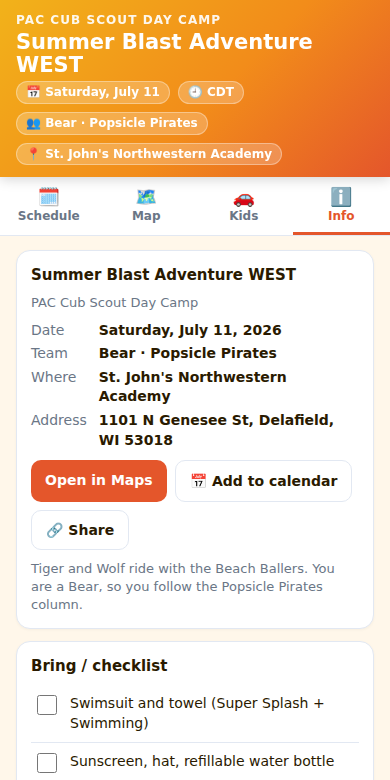
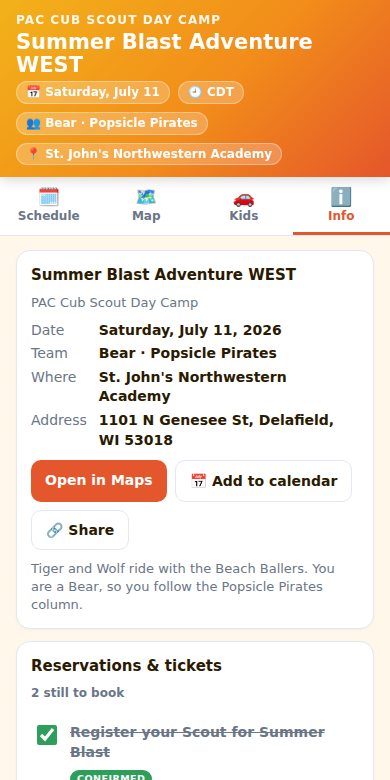
Add reservations and tickets tracker; brainstorm trip-planning roadmap
The app started life as a day-of schedule. A Slack thread reframed the
harder job that comes before that: planning a trip where some things need
tickets or reservations worked out ahead, some are time constrained, some
are too far apart to share a day, and different people want different
things.

This ships the most self-contained of those: an optional bookings[] array
on event.json, rendered as a "Reservations and tickets" card on the Info
tab. Each booking has a status (confirmed, todo, waitlist), an optional
book-by deadline that goes amber as it nears and red when overdue, a
confirmation ref, a booking link, place directions, and a note. A header
count keeps "N still to book" in front of you, and ticking one off
persists offline like the packing list. Everything is optional and
backward compatible, so existing event.json files render unchanged.

IDEAS.md captures the rest of the roadmap (opening hours, per-person
wants, drive-time fit, flex-vs-fixed replanning, and a candidate-pool day
builder), each mapped to a pain point and following the same optional,
offline, data-driven rules.

- index.html: normalizeBookings(), daysUntil(), BOOK_STATUS, the Info card
  render + offline persistence, and matching CSS.
- SPEC.md, README.md, NEW-EVENT.md: document the field and prompt for it.
- event.json and samples/vacation.json: sample bookings.
- sw.js: bump CACHE to daykit-v9.
- docs/: regenerate the Info and goals screenshots.
[…]

Changed region(s): [[0.0923, 0.8308, 0.8615, 1.0]]

diff --git a/index.html b/index.html
@@ -231,6 +231,24 @@
   .goallist.stretch .goalpill { background: var(--water); }
   .goallist.stretch .check input { accent-color: var(--water); }
   .goalprog { font-size: 11px; color: var(--muted); font-weight: 700; margin: 4px 0 0; }
+  .bksum { font-size: 12px; color: var(--muted); font-weight: 700; margin: 0 0 10px; }
+  .bklist { list-style: none; margin: 0; padding: 0; }
+  .bk { display: flex; gap: 10px; align-items: flex-start; padding: 11px 2px; border-bottom: 1px solid var(--line); }
+  .bk:last-child { border-bottom: 0; }
+  .bk input { width: 20px; height: 20px; margin-top: 2px; accent-color: #2e9e5b; flex: 0 0 auto; }
+  .bk .bkmain { flex: 1 1 auto; min-width: 0; }
+  .bk .bktop { display: flex; align-items: center; gap: 8px; flex-wrap: wrap; }
+  .bk .bkname { font-size: 14px; font-weight: 700; }
+  .bk.done .bkname { text-decoration: line-through; color: var(--muted); }
+  .bkpill { font-size: 9.5px; font-weight: 800; letter-spacing: .05em; text-transform: uppercase; padding: 2px 7px; border-radius: 999px; color: #fff; background: var(--muted); white-space: nowrap; }
+  .bkpill.confirmed { background: #2e9e5b; }
+  .bkpill.waitlist { background: #e0922f; }
+  .bkpill.todo { background: var(--accent); }
+  .bkmeta { font-size: 12px; color: var(--muted); margin: 3px 0 0; }
+  .bkmeta a { color: var(--water); font-weight: 600; }
+  .bkby { font-weight: 700; }
+  .bkby.soon { color: #c9791f; }
+  .bkby.over { color: #d64545; }
   .kv { display: grid; grid-template-columns: auto 1fr; gap: 4px 12px; font-size: 14px; margin: 0; }
   .kv dt { color: var(--muted); }
   .kv dd { margin: 0; font-weight: 600; }
@@ -417,6 +435,37 @@ function normalizeLists(raw){
     });
   }
   return out;
+}
+
+/* Reservation statuses. "todo" needs booking, "confirmed" is locked, "waitlist" is pending. */
+var BOOK_STATUS = {
+  todo:      { pill:"To book" },
+  confirmed: { pill:"Confirmed" },
+  waitlist:  { pill:"Waitlist" }
+};
+
+/* Accept a few shapes for EV.bookings and normalize to [{title,status,...}]. */
+function normalizeBookings(raw){
+  if(!Array.isArray(raw)) return [];
+  return raw.map(function(b){
+    if(typeof b==="string") return { title:b, status:"todo", when:"", by:"", ref:"", url:"", place:"", who:"", note:"" };
+    if(!b || !b.title) return null;
+    var status=String(b.status||"todo").toLowerCase();
+    if(!BOOK_STATUS[status]) status="todo";
+    return {
+      title:b.title, status:status,
+      when:b.when||"", by:b.by||"", ref:b.ref||"", url:b.url||"",
+      place:b.place||"", who:b.who||"", note:b.note||""
+    };
+  }).filter(Boolean);
+}
+
+/* Whole days from local midnight until a yyyy-mm-dd date. Negative means past. */
+function daysUntil(ymd){
+  if(!/^\d{4}-\d{2}-\d{2}$/.test(String(ymd))) return null;
+  var target=dateAt(ymd,"00:00"), now=new Date();
+  now.setHours(0,0,0,0);
+  return Math.round((target-now)/86400000);
 }
 
 /* ---- time helpers. Schedule times are wall-clock in the event's timezone. ---- */
@@ -742,6 +791,45 @@ function renderInfo(){
     html+='</div>';
   }
 
+  var bookings=normalizeBookings(EV.bookings);
+  if(bookings.length){
+    var bsaved={};
+    try { bsaved=JSON.parse(localStorage.getItem("daykit:"+EV.id+":bookings")||"{}"); } catch(e){}
+    var toBook=0, rows="";
+    bookings.forEach(function(bk,i){
+      var id="bk-"+i;
+      var handled = (id in bsaved) ? !!bsaved[id] : (bk.status==="confirmed");
+      if(!handled) toBook++;
+      var pill=(BOOK_STATUS[bk.status]||BOOK_STATUS.todo).pill;
+      var parts=[];
+      if(bk.when) parts.push(esc(bk.when));
+      if(bk.who) parts.push(esc(bk.who));
+      if(bk.ref) parts.push("Ref "+esc(bk.ref));
+      if(bk.by && !handled){
+        var du=daysUntil(bk.by), byd=fmtDay(bk.by,{month:"short",day:"numeric"});
+        var cls = du==null ? "" : (du<0 ? "over" : (du<=14 ? "soon" : ""));
+        var lab = du==null ? ("Book by "+esc(bk.by))
+                : du<0    ? ("Overdue since "+byd)
+                : du===0  ? "Book by today"
+                :           ("Book by "+byd+" ("+du+"d)");
+        parts.push('<span class="bkby '+cls+'">'+lab+'</span>');
+      }
+      if(bk.url) parts.push('<a href="'+esc(bk.url)+'" target="_blank" rel="noopener">'+(handled?"View":"Book")+'</a>');
+      var bp=bk.place && placeById[bk.place];
+      if(bp) parts.push('<a href="'+searchUrl(bp)+'" target="_blank" rel="noopener">Directions</a>');
+      rows+='<li class="bk'+(handled?" done":"")+'">'+
+        '<input type="checkbox" id="'+id+'"'+(handled?" checked":"")+'>'+
+        '<div class="bkmain"><div class="bktop"><span class="bkname">'+esc(bk.title)+'</span>'+
+          '<span class="bkpill '+bk.status+'">'+pill+'</span></div>'+
+          (parts.length?'<div class="bkmeta">'+parts.join(" · ")+'</div>':'')+
+          (bk.note?'<div class="bkmeta" style="opacity:.85">'+esc(bk.note)+'</div>':'')+
+        '</div></li>';
+    });
+    html+='<div class="card"><h2>Reservations &amp; tickets</h2>'+
+      '<p class="bksum">'+(toBook ? (toBook+" still to book") : "All booked 🎉")+'</p>'+
+      '<ul class="bklist" id="bookList">'+rows+'</ul></div>';
+  }
+
   if(EV.bring && EV.bring.length){
     html+='<div class="card"><h2>'+(isMulti?"Packing":"Bring")+' / checklist</h2><ul class="check" id="bringList">';
     EV.bring.forEach(function(b,i){
@@ -803,6 +891,26 @@ function renderInfo(){
       try { localStorage.setItem(key, JSON.stringify(saved)); } catch(e){}
     });
   });
+
+  var blist=w.querySelector("#bookList");
+  if(blist){
+    var bkey="daykit:"+EV.id+":bookings", bsaved2={};
+    try { bsaved2=JSON.parse(localStorage.getItem(bkey)||"{}"); } catch(e){}
+    var refreshBookSum=function(){
+      var sum=w.querySelector(".bksum"); if(!sum) return;
+      var n=0;
+      blist.querySelectorAll("input").forEach(function(b){ if(!b.checked) n++; });
+      sum.textContent = n ? (n+" still to book") : "All booked 🎉";
+    };
+    blist.querySelectorAll("input").forEach(function(cb){
+      cb.addEventListener("change", function(){
+        cb.closest("li").classList.toggle("done", cb.checked);
+        bsaved2[cb.id]=cb.checked;
+        try { localStorage.setItem(bkey, JSON.stringify(bsaved2)); } catch(e){}
+        refreshBookSum();
+      });
+    });
+  }
 
   var lkey="daykit:"+EV.id+":lists", lsaved={};
   try { lsaved=JSON.parse(localStorage.getItem(lkey)||"{}"); } catch(e){}

diff --git a/sw.js b/sw.js
@@ -3,7 +3,7 @@
    Caches the app shell plus event.json so the whole day still loads with no signal.
    Map tiles saved via "Save offline" live in a separate cache (TILES) that survives updates. */
 
-var CACHE = 'daykit-v8';
+var CACHE = 'daykit-v9';
 var TILES = 'daykit-tiles';   // written by the app's "Save offline" button; kept across activations
 
 // Same-origin shell (relative to scope). These must all fetch for install to succeed.

diff --git a/IDEAS.md b/IDEAS.md
@@ -1,0 +1,98 @@
+# Ideas: from a day-of app to a trip planner
+
+This started as a day-of pocket app: a fixed schedule you glance at while you
+run between stations. The Slack thread that kicked this off was about the messier
+job that comes _before_ that: figuring out a trip where you want to see or do all
+the unique things a place has to offer that interest you. That job has real
+friction, and Philip named it well:
+
+1. Some things are **time constrained** (open only certain hours, seasonal, tide
+   or daylight dependent).
+2. Some things are **too far apart or too time consuming** to do on the same day.
+3. Some things are **too close in time** to each other to both fit.
+4. You **travel with others**, and different people want different things.
+5. Some things **require tickets or reservations** to be worked out.
+6. Some things **can flex** to different times if plans change.
+
+The app is deliberately zero-backend and data-driven: everything specific to an
+event lives in `event.json`, and every field is optional so old files keep
+working (see `CLAUDE.md`). So the plan is to grow the data model one optional
+field at a time, each one earning its keep against a real pain point above, and
+render nothing when a field is absent.
+
+## Shipped in this PR
+
+### Reservations and tickets (pain point 5)
+
+A `bookings[]` array on `event.json`, surfaced as a "Reservations and tickets"
+card on the Info tab. Each booking carries a `status` (`confirmed`, `todo`,
+`waitlist`), an optional `by` book-by deadline that turns amber as it nears and
+red when it's overdue, plus a confirmation `ref`, a booking `url`, a `place` for
+directions, and a free-text `note`. A header count keeps "3 still to book" in
+front of you, and checking one off persists offline like the packing list.
+Schema in `SPEC.md`, samples in `event.json` and `samples/vacation.json`.
+
+This is the most self-contained of the six and the one you feel first: the trip
+falls apart when the thing you wanted sells out while you were deciding.
+
+## Next up (roadmap, roughly in build order)
+
+### 1. Opening hours and windows (pain point 1)
+
+Add an optional `open` window to a `place`, or an `earliest`/`latest` to a
+schedule item: "the lighthouse only does tours on the hour, 10 to 4," "tide is
+low enough to walk the cliffs only 11 to 2." Render a small clock pill on the
+stop and, on the live "up next" card, warn when the current plan would arrive
+outside the window. Purely additive, and it makes the schedule honest about the
+constraints it's already implicitly built around.
+
+### 2. Wants and who's-in (pain point 4)
+
+Let a schedule item, goal, or a new `candidates[]` pool carry a `who` list of
+names drawn from `team`. Render little initial chips, and add a filter on the
+Schedule and Goals tabs: "show me just Dad's must-dos," "what does everyone
+agree on." The trip-goal `must` / `stretch` split already gestures at this; this
+makes it per-person so the group can see where wants overlap and where they'll
+split up. Names come from an expanded `team.members[]`.
+
+### 3. Drive time and "can these share a day" (pain points 2 and 3)
+
+Every `place` already has `lat`/`lng`. A rough straight-line distance between
+consecutive stops (times a road-factor fudge) gives a good-enough drive estimate
+with no routing API and no network, which matters offline in a park with no
+signal. Surface it as a "~40 min drive" chip between stops, and flag when a day's
+stops don't physically fit the hours between them, or when two things you want
+are so far apart they can't share a day. This is the clearest answer to "too far
+apart" and "too close together."
+
+### 4. Flexible vs fixed, and a replan nudge (pain point 6)
+
+Mark a schedule item `flex: true` (can move) vs anchored (a booked tour at a
+fixed time). When the live countdown shows you're running behind, offer to slide
+the flexible blocks later and tell you which fixed ones that now threatens: "push
+the beach an hour and you still make the 6:00 fish boil, but the lighthouse tour
+closes at 4." The app already tracks live time and the next stop; this turns that
+into a lightweight replanner.
+
+### 5. Candidate pool and day-builder (pain points 2, 3, 4 together)
+
+A pre-trip mode: instead of a fixed `schedule`, start from a `candidates[]` list
+of everything you might do, each tagged with duration, hours, who wants it, and
+whether it's booked. Drag them onto days; the app checks them against drive time,
+opening hours, and reservations as you go, and flags conflicts. This is the big
+one, and it's really the sum of ideas 1 through 4. It turns the app from "show me
+the plan" into "help me build the plan," which is exactly the guided interactive
+process the thread asked for. Everything above is a down payment on this.
+
+## Design rules these all follow
+
+- **Optional and backward compatible.** Every new field is additive; absent
+  fields render nothing, never an error. Old `event.json` files keep working.
+- **Offline first.** No new network dependencies. Distance and time math is done
+  from coordinates already in the file, because the whole point is that it works
+  in a field with no signal.
+- **Data-driven, not hardcoded.** Nothing event-specific goes in `index.html`;
+  it goes in `event.json` and is documented in `SPEC.md`, sampled in both
+  `event.json` and `samples/vacation.json`, and prompted for in `NEW-EVENT.md`.
+- **Glanceable.** The value is a plan you can read at a glance while standing in
+  a parking lot. New features earn their pixels or they don't ship.

diff --git a/SPEC.md b/SPEC.md
@@ -92,6 +92,39 @@ accent with a "Must do" pill, `stretch` in the water blue with an "If we get
 time" pill; any other tone gets neutral styling. Omit `lists` entirely and the
 section does not appear.
 
+## `bookings` (reservations and tickets)
+
+Optional. The things that have to be worked out ahead of time: tour tickets,
+dinner seatings, ferries, campsites, permits. Renders as a "Reservations and
+tickets" card on the Info tab with a "N still to book" header count. Each row
+has a checkbox you tick when it's handled; `confirmed` items start ticked, and
+your ticks persist offline per item like the packing list (under the
+`daykit:<event.id>:bookings` key).
+
+```jsonc
+"bookings": [
+  {
+    "title": "Eagle Bluff Lighthouse tour",  // required
+    "status": "todo",        // "todo" (needs booking), "confirmed" (locked in),
+                             // or "waitlist" (pending). Sets the pill color.
+                             // Anything unrecognized falls back to "todo".
+    "when": "Sat Jul 18, around 12:15pm",  // optional free-text reservation time
+    "by": "2026-07-15",      // optional book-by deadline (yyyy-mm-dd). Shows a
+                             // countdown that turns amber within 14 days and red
+                             // when overdue. Hidden once the row is handled.
+    "ref": "WSI-88213",      // optional confirmation or reference number
+    "url": "https://...",    // optional booking link (Book / View)
+    "place": "lighthouse",   // optional place id; adds a Directions link
+    "who": "Everyone",       // optional, who it's for
+    "note": "Sells out in summer."  // optional free text
+  }
+]
+```
+
+A string shorthand is accepted and treated as a `todo` with just a title:
+`"bookings": ["Book the ferry", "Reserve a campsite"]`. Omit `bookings`
+entirely and the section does not appear.
+
 ## `schedule` items
 
 ```jsonc

diff --git a/README.md b/README.md
@@ -63,15 +63,22 @@ Three tabs, no backend, no build step.
   they reach (with confetti), and three offline boredom-busters are built in:
   Bingo, Spot It, and I Spy.
 - **Info** - Location and Open-in-Maps, an Add-to-Calendar export (.ics), a
-  Share button, where you're staying, a saved packing checklist, trip goal
-  lists, live weather, reminder controls, a light/dark appearance toggle, and
-  good-to-know notes.
+  Share button, where you're staying, a reservations tracker, a saved packing
+  checklist, trip goal lists, live weather, reminder controls, a light/dark
+  appearance toggle, and good-to-know notes.
 - **Trip goals** - Two saved checklists on the Info tab that split the trip
   into what matters. A "must-do / the whole point" list for the reasons you
   came, and a "would-be-awesome / bonus adventures" list for the stops you'll
   hit if time allows or another adventure brings you close. Each shows a
   little "3 of 4 done" progress line, and ticks stay checked offline like the
   packing list. Both are optional and data-driven from `event.json`.
+- **Reservations and tickets** - An optional `bookings` list on the Info tab
+  for the things that have to be worked out ahead of time: tour tickets, dinner
+  seatings, ferries, permits. Each shows a status pill (confirmed, to book, or
+  waitlist), an optional book-by deadline that turns amber as it nears and red
+  when it's overdue, plus confirmation numbers, a booking link, and directions.
+  A header count keeps "3 still to book" in front of you, and checking one off
+  stays checked offline. Fully optional and data-driven.
 
 Times respect the event's `timezone`, so a trip in another zone still shows
 the right clock. The whole thing installs to the home screen and works offline.

diff --git a/NEW-EVENT.md b/NEW-EVENT.md
@@ -36,6 +36,9 @@ corner.
 > - Add a sensible `bring` checklist and a `closingNote`.
 > - Add a `lists` array with a `must` list (the whole point of the day) and a
 >   `stretch` list (bonus things to do if there is time).
+> - If anything has to be signed up, paid, or reserved ahead of time (forms,
+>   tickets, volunteer slots), add a `bookings` array with a `status` of
+>   `confirmed`, `todo`, or `waitlist` and a `by` deadline where one applies.
 >
 > Output only the `event.json`.
 
@@ -56,6 +59,10 @@ corner.
 >   `notes`.
 > - Add a `lists` array with a `must` list (the reasons for the trip) and a
 >   `stretch` list (would-be-awesome extras if time allows).
+> - Add a `bookings` array for anything that needs a reservation or ticket
+>   (hotels, tours, dinners, ferries, permits), each with a `status`
+>   (`confirmed`, `todo`, or `waitlist`) and a `by` book-by deadline where the
+>   thing sells out or has a cutoff.
 >
 > Output only the `event.json`.
 